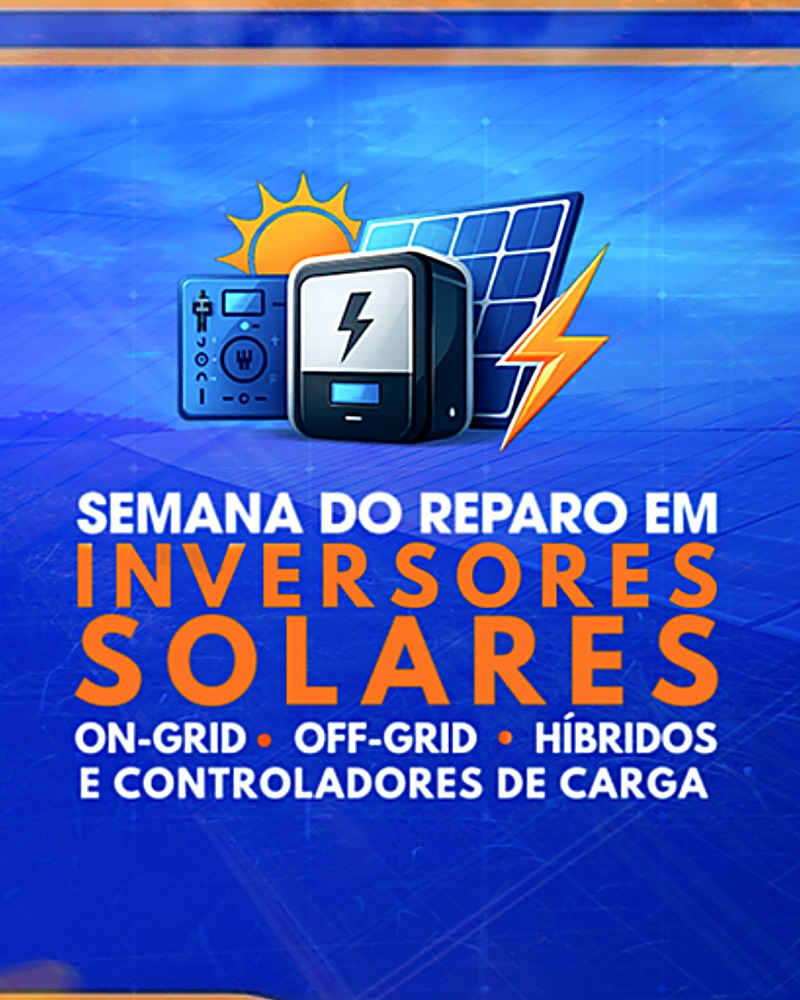
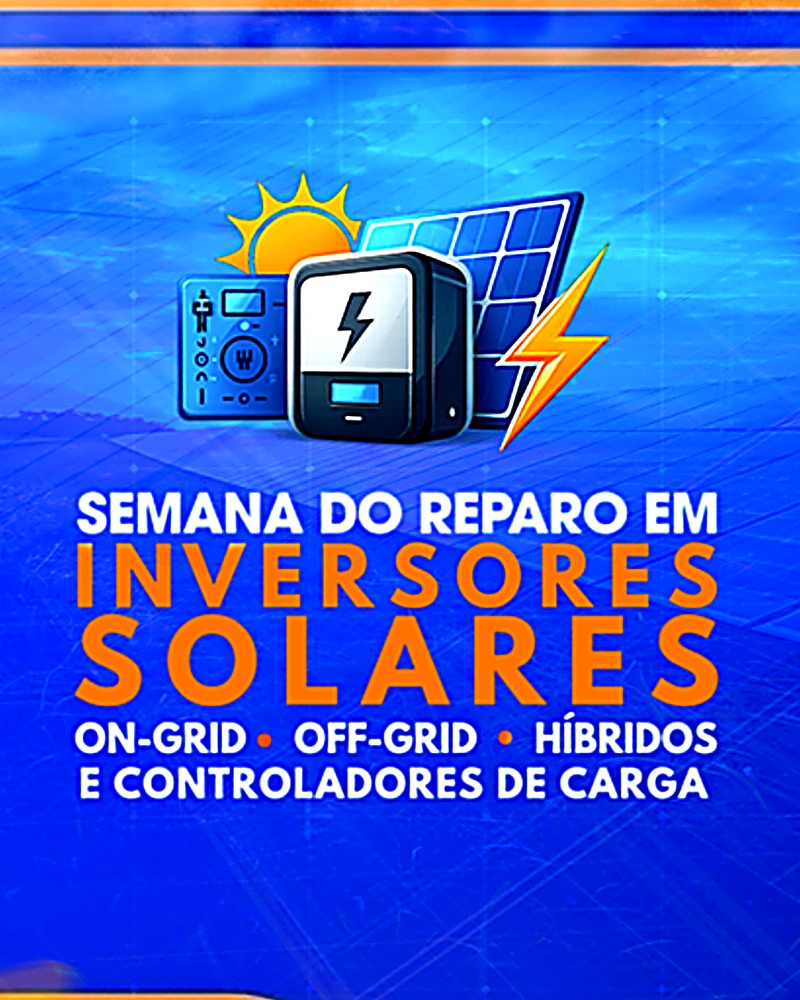
Add files via upload

diff --git a/css/style.css b/css/style.css
@@ -114,7 +114,7 @@ section{ padding:80px 0; position:relative; }
 .course-card{ display:flex; flex-direction:column; transition:transform .18s ease; }
 .course-card:hover{ transform:translateY(-4px); }
 .course-poster{ aspect-ratio:4/5; border-radius:4px; position:relative; overflow:hidden; margin-bottom:16px; display:flex; flex-direction:column; justify-content:flex-end; padding:20px; background-size:cover; background-position:center; }
-.course-poster.has-photo::after{ content:""; position:absolute; inset:0; background:linear-gradient(180deg, rgba(0,0,0,0.15) 0%, rgba(0,0,0,0.75) 100%); z-index:0; }
+.course-poster.has-photo::after{ content:""; position:absolute; inset:0; background:linear-gradient(180deg, rgba(0,0,0,0.05) 0%, rgba(0,0,0,0.15) 55%, rgba(0,0,0,0.62) 100%); z-index:0; }
 .course-poster.has-photo .num, .course-poster.has-photo .badge, .course-poster.has-photo h3{ position:relative; z-index:1; }
 .course-poster::before{ content:""; position:absolute; inset:0; background-image:
     linear-gradient(rgba(255,255,255,0.06) 1px, transparent 1px),